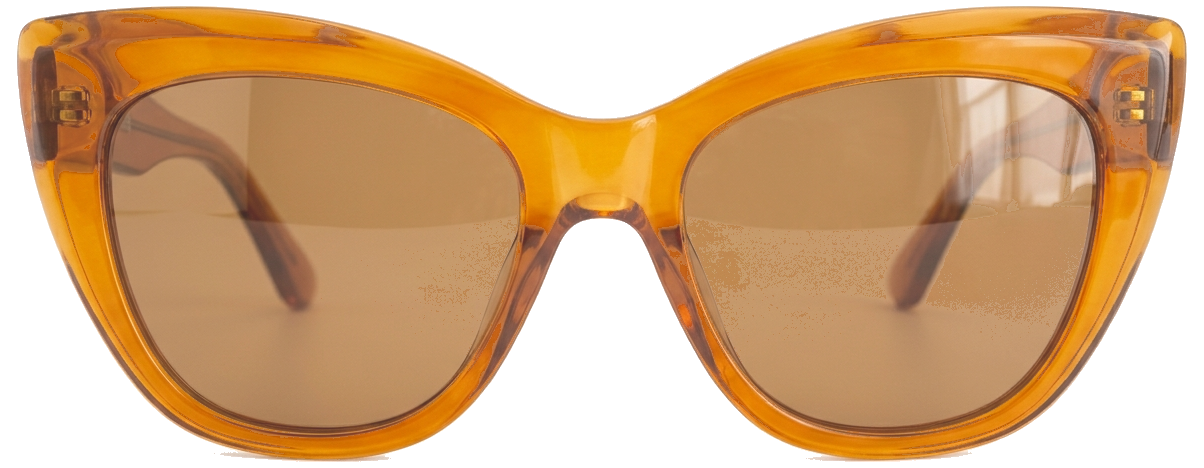
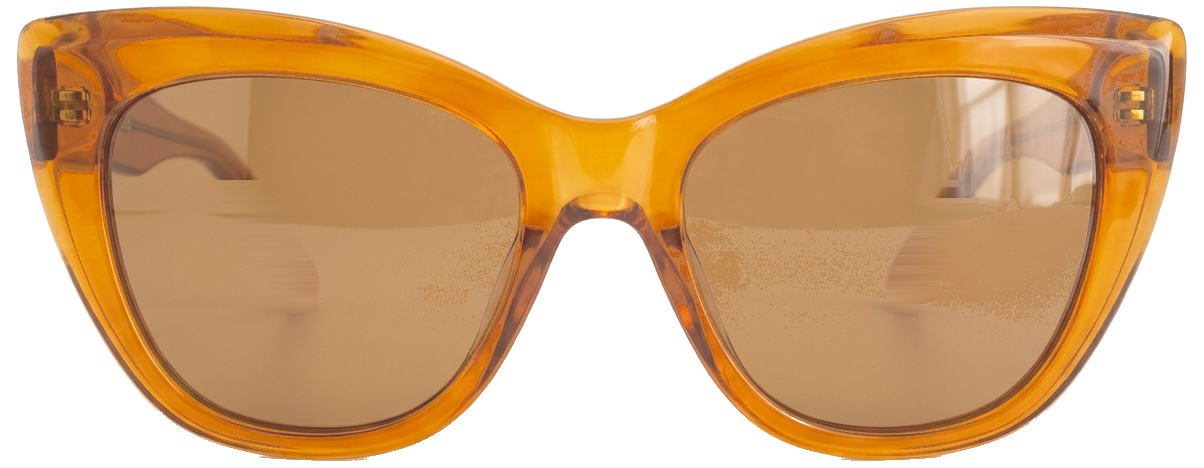
fix(tryon): fix temple arms orientation to ears, clean lens cutout artifacts, and update deployment

diff --git a/frontend/src/components/common/VirtualTryOnModal.tsx b/frontend/src/components/common/VirtualTryOnModal.tsx
@@ -124,6 +124,8 @@ export function drawProceduralEyewear(
     drawTemples?: boolean | undefined;
     imageElement?: HTMLImageElement | null | undefined;
     mirrored?: boolean | undefined;
+    earLeft?: { x: number; y: number } | undefined;
+    earRight?: { x: number; y: number } | undefined;
   } = {}
 ) {
   const {
@@ -137,6 +139,8 @@ export function drawProceduralEyewear(
     drawTemples = true,
     imageElement = null,
     mirrored = false,
+    earLeft,
+    earRight,
   } = options;
 
   ctx.save();
@@ -154,76 +158,144 @@ export function drawProceduralEyewear(
   if (imageElement && imageElement.complete && imageElement.naturalWidth > 0) {
     const imgH = (imageElement.naturalHeight / imageElement.naturalWidth) * width;
 
-    // Draw 3D Perspective Temple Arms behind the front frame (extending towards the ears)
+    // Draw 3D Realistic Temple Arms ("Dandi") extending from frame hinges directly to ears
     if (drawTemples) {
-      const hingeY = -imgH * 0.05;
+      const hingeY = -imgH * 0.04;
       const leftHingeX = -width * 0.485;
       const rightHingeX = width * 0.485;
-      const templeLength = width * 0.32;
-      const templeUp = width * 0.14;
 
-      const leftBackX = leftHingeX - templeLength * 0.12 - yaw * width * 0.22;
-      const leftBackY = hingeY - templeUp;
-      const rightBackX = rightHingeX + templeLength * 0.12 - yaw * width * 0.22;
-      const rightBackY = hingeY - templeUp;
+      // Transform world/screen ear coordinates into local frame space
+      // Eyewear temples MUST extend strictly OUTWARD and BACKWARD towards the ears.
+      // They rest over the ear helix at the sides of the head and must NEVER enter the lens area.
+      const minTempleSpan = width * 0.08;
+
+      let leftEarLocalX: number;
+      let leftEarLocalY: number;
+      if (earLeft) {
+        const dx = earLeft.x - x;
+        const dy = earLeft.y - y;
+        const unrotX = dx * Math.cos(-roll) - dy * Math.sin(-roll);
+        const unrotY = dx * Math.sin(-roll) + dy * Math.cos(-roll);
+        const rawLocalX = (unrotX - yawShiftX) / perspectiveScaleX;
+        // The top of the ear sits laterally outside the frame hinge; clamp strictly outside
+        leftEarLocalX = Math.min(leftHingeX - minTempleSpan, rawLocalX - width * 0.04);
+        leftEarLocalY = Math.max(hingeY - width * 0.05, Math.min(hingeY + width * 0.06, unrotY));
+      } else {
+        const reach = width * 0.28;
+        leftEarLocalX = leftHingeX - (yaw > 0 ? reach * 0.35 : reach * 0.85);
+        leftEarLocalY = hingeY + width * 0.02;
+      }
+
+      let rightEarLocalX: number;
+      let rightEarLocalY: number;
+      if (earRight) {
+        const dx = earRight.x - x;
+        const dy = earRight.y - y;
+        const unrotX = dx * Math.cos(-roll) - dy * Math.sin(-roll);
+        const unrotY = dx * Math.sin(-roll) + dy * Math.cos(-roll);
+        const rawLocalX = (unrotX - yawShiftX) / perspectiveScaleX;
+        rightEarLocalX = Math.max(rightHingeX + minTempleSpan, rawLocalX + width * 0.04);
+        rightEarLocalY = Math.max(hingeY - width * 0.05, Math.min(hingeY + width * 0.06, unrotY));
+      } else {
+        const reach = width * 0.28;
+        rightEarLocalX = rightHingeX + (yaw < 0 ? reach * 0.35 : reach * 0.85);
+        rightEarLocalY = hingeY + width * 0.02;
+      }
 
       ctx.save();
       ctx.lineCap = "round";
       ctx.lineJoin = "round";
 
-      // Left temple arm (receding towards left ear)
-      if (yaw < 0.5) {
+      // Left Temple Arm ("Left Dandi") -> goes from left hinge OUTWARD and BACK to left ear
+      if (yaw < 0.45) {
+        const midCtrlX = leftHingeX + (leftEarLocalX - leftHingeX) * 0.45;
+        const midCtrlY = Math.min(hingeY, leftEarLocalY) - 2;
+        const tipX = leftEarLocalX - width * 0.025;
+        const tipY = leftEarLocalY + width * 0.07;
+
+        // Shadow for 3D depth on skin/hair
+        ctx.beginPath();
+        ctx.moveTo(leftHingeX, hingeY + 2);
+        ctx.quadraticCurveTo(midCtrlX, midCtrlY + 2, leftEarLocalX, leftEarLocalY + 2);
+        ctx.quadraticCurveTo(leftEarLocalX - 2, leftEarLocalY + width * 0.035 + 2, tipX, tipY + 2);
+        ctx.strokeStyle = "rgba(0, 0, 0, 0.25)";
+        ctx.lineWidth = Math.max(3.2, width * 0.016);
+        ctx.stroke();
+
+        // Main temple stem (matches frame color)
         ctx.beginPath();
         ctx.moveTo(leftHingeX, hingeY);
-        ctx.quadraticCurveTo(
-          leftHingeX - 8 - yaw * 12,
-          hingeY - templeUp * 0.5,
-          leftBackX,
-          leftBackY
-        );
+        ctx.quadraticCurveTo(midCtrlX, midCtrlY, leftEarLocalX, leftEarLocalY);
         ctx.strokeStyle = frameColor;
-        ctx.lineWidth = Math.max(3, width * 0.016);
+        ctx.lineWidth = Math.max(2.6, width * 0.014);
         ctx.stroke();
 
+        // Metallic top highlight
         ctx.beginPath();
-        ctx.moveTo(leftHingeX, hingeY + 1);
-        ctx.quadraticCurveTo(
-          leftHingeX - 8 - yaw * 12,
-          hingeY - templeUp * 0.5 + 1,
-          leftBackX,
-          leftBackY + 1
-        );
-        ctx.strokeStyle = "rgba(0, 0, 0, 0.35)";
-        ctx.lineWidth = Math.max(1.2, width * 0.007);
+        ctx.moveTo(leftHingeX, hingeY - 1);
+        ctx.quadraticCurveTo(midCtrlX, midCtrlY - 1, leftEarLocalX, leftEarLocalY - 1);
+        ctx.strokeStyle = "rgba(255, 255, 255, 0.60)";
+        ctx.lineWidth = Math.max(1.0, width * 0.005);
         ctx.stroke();
+
+        // Curved Ear Hook / Acetate Temple Tip (curves DOWN behind ear)
+        ctx.beginPath();
+        ctx.moveTo(leftEarLocalX, leftEarLocalY);
+        ctx.quadraticCurveTo(leftEarLocalX - 2, leftEarLocalY + width * 0.035, tipX, tipY);
+        ctx.strokeStyle = frameColor;
+        ctx.lineWidth = Math.max(2.4, width * 0.012);
+        ctx.stroke();
+
+        // Reinforced Hinge Joint at frame connection
+        ctx.fillStyle = frameColor;
+        ctx.fillRect(leftHingeX - 3, hingeY - 3, 5, 6);
       }
 
-      // Right temple arm (receding towards right ear)
-      if (yaw > -0.5) {
+      // Right Temple Arm ("Right Dandi") -> goes from right hinge OUTWARD and BACK to right ear
+      if (yaw > -0.45) {
+        const midCtrlX = rightHingeX + (rightEarLocalX - rightHingeX) * 0.45;
+        const midCtrlY = Math.min(hingeY, rightEarLocalY) - 2;
+        const tipX = rightEarLocalX + width * 0.025;
+        const tipY = rightEarLocalY + width * 0.07;
+
+        // Shadow for 3D depth on skin/hair
+        ctx.beginPath();
+        ctx.moveTo(rightHingeX, hingeY + 2);
+        ctx.quadraticCurveTo(midCtrlX, midCtrlY + 2, rightEarLocalX, rightEarLocalY + 2);
+        ctx.quadraticCurveTo(rightEarLocalX + 2, rightEarLocalY + width * 0.035 + 2, tipX, tipY + 2);
+        ctx.strokeStyle = "rgba(0, 0, 0, 0.25)";
+        ctx.lineWidth = Math.max(3.2, width * 0.016);
+        ctx.stroke();
+
+        // Main temple stem (matches frame color)
         ctx.beginPath();
         ctx.moveTo(rightHingeX, hingeY);
-        ctx.quadraticCurveTo(
-          rightHingeX + 8 - yaw * 12,
-          hingeY - templeUp * 0.5,
-          rightBackX,
-          rightBackY
-        );
+        ctx.quadraticCurveTo(midCtrlX, midCtrlY, rightEarLocalX, rightEarLocalY);
         ctx.strokeStyle = frameColor;
-        ctx.lineWidth = Math.max(3, width * 0.016);
+        ctx.lineWidth = Math.max(2.6, width * 0.014);
         ctx.stroke();
 
+        // Metallic top highlight
         ctx.beginPath();
-        ctx.moveTo(rightHingeX, hingeY + 1);
-        ctx.quadraticCurveTo(
-          rightHingeX + 8 - yaw * 12,
-          hingeY - templeUp * 0.5 + 1,
-          rightBackX,
-          rightBackY + 1
-        );
-        ctx.strokeStyle = "rgba(0, 0, 0, 0.35)";
-        ctx.lineWidth = Math.max(1.2, width * 0.007);
+        ctx.moveTo(rightHingeX, hingeY - 1);
+        ctx.quadraticCurveTo(midCtrlX, midCtrlY - 1, rightEarLocalX, rightEarLocalY - 1);
+        ctx.strokeStyle = "rgba(255, 255, 255, 0.60)";
+        ctx.lineWidth = Math.max(1.0, width * 0.005);
         ctx.stroke();
+
+        // Curved Ear Hook / Acetate Temple Tip (curves DOWN behind ear)
+        ctx.beginPath();
+        ctx.moveTo(rightEarLocalX, rightEarLocalY);
+        ctx.quadraticCurveTo(rightEarLocalX + 2, rightEarLocalY + width * 0.035, tipX, tipY);
+        ctx.strokeStyle = frameColor;
+        ctx.lineWidth = Math.max(2.4, width * 0.012);
+        ctx.stroke();
+
+        // Reinforced Hinge Joint at frame connection
+        ctx.fillStyle = frameColor;
+        ctx.fillRect(rightHingeX - 2, hingeY - 3, 5, 6);
       }
+
       ctx.restore();
     }
 
@@ -471,6 +543,15 @@ export function renderDemoPortrait(
   const bridgeWorldX = cx + Math.cos(params.roll) * featureShiftX - Math.sin(params.roll) * (eyeY + params.offsetY);
   const bridgeWorldY = cy + Math.sin(params.roll) * featureShiftX + Math.cos(params.roll) * (eyeY + params.offsetY);
 
+  const earLeftWorld = {
+    x: cx + Math.cos(params.roll) * (-headRadiusX * 0.98 + featureShiftX * 0.1) - Math.sin(params.roll) * (eyeY + 6),
+    y: cy + Math.sin(params.roll) * (-headRadiusX * 0.98 + featureShiftX * 0.1) + Math.cos(params.roll) * (eyeY + 6),
+  };
+  const earRightWorld = {
+    x: cx + Math.cos(params.roll) * (headRadiusX * 0.98 + featureShiftX * 0.1) - Math.sin(params.roll) * (eyeY + 6),
+    y: cy + Math.sin(params.roll) * (headRadiusX * 0.98 + featureShiftX * 0.1) + Math.cos(params.roll) * (eyeY + 6),
+  };
+
   drawProceduralEyewear(ctx, params.frameShape, {
     x: bridgeWorldX,
     y: bridgeWorldY,
@@ -480,6 +561,8 @@ export function renderDemoPortrait(
     frameColor: params.frameColor,
     tintMode: params.tintMode,
     imageElement: params.imageElement,
+    earLeft: earLeftWorld,
+    earRight: earRightWorld,
   });
 }
 
@@ -855,6 +938,8 @@ export function VirtualTryOnModal({
         tintMode: lensTintRef.current,
         imageElement: activeImageRef.current,
         mirrored: false,
+        earLeft: getPt(454),
+        earRight: getPt(234),
       });
 
       // Update Telemetry

diff --git a/scripts/clean_tryon_assets.py b/scripts/clean_tryon_assets.py
@@ -1,0 +1,144 @@
+import numpy as np
+from PIL import Image
+
+def clean_graphite():
+    im = Image.open('frontend/src/assets/tryon/graphite-squareline-front.png').convert('RGBA')
+    arr = np.array(im)
+    h, w, _ = arr.shape
+    
+    # Left lens arm: diagonal from (100, 60) down-right to (360, 215)
+    # Inside lens area only: keep rim (x < 95, y < 45, y > 290, x > 470)
+    for y in range(48, 225):
+        for x in range(100, 370):
+            # The arm is darker gray/black or silver
+            # Check if this pixel is inside the lens and part of the arm
+            if arr[y, x, 3] > 10:
+                # Arm boundary condition: y starts at 50, x around 100-200; y up to 215, x around 330-360
+                # Distance to arm line: from (120, 65) to (345, 205)
+                # Let's check if it's not the outer rim
+                # Rim is at x <= 95 or y <= 45
+                if x >= 98 and y >= 48 and x <= 365:
+                    arr[y, x] = [0, 0, 0, 0]
+
+    # Right lens arm: from (1110, 60) down-left to (880, 215)
+    for y in range(48, 225):
+        for x in range(860, 1112):
+            if arr[y, x, 3] > 10:
+                if x <= 1110 and y >= 48 and x >= 870:
+                    arr[y, x] = [0, 0, 0, 0]
+
+    out = Image.fromarray(arr)
+    out.save('frontend/src/assets/tryon/graphite-squareline-front.png')
+    print("Graphite cleaned successfully!")
+
+def clean_solstice():
+    im = Image.open('frontend/src/assets/tryon/solstice-aviator-front.png').convert('RGBA')
+    arr = np.array(im)
+    h, w, _ = arr.shape
+
+    # Solstice has arms inside [100, 360] x [90, 350] on left, and [810, 1070] x [90, 350] on right
+    # For horizontal interpolation, inpaint where the arm is dark
+    # For each row y between 90 and 345:
+    for y in range(90, 345):
+        # Left lens
+        row_l = arr[y, 110:360]
+        # Dark arm pixels
+        is_arm_l = (row_l[:, 0] < 95) & (row_l[:, 1] < 125) & (row_l[:, 3] > 50)
+        if np.any(is_arm_l):
+            idx = np.where(is_arm_l)[0]
+            start_x = 110 + max(0, idx[0] - 8)
+            end_x = 110 + min(len(row_l) - 1, idx[-1] + 8)
+            # Ensure start_x and end_x are in green lens
+            if arr[y, start_x, 1] > 115 and arr[y, end_x, 1] > 115 and end_x > start_x:
+                c0 = arr[y, start_x].astype(float)
+                c1 = arr[y, end_x].astype(float)
+                for i in range(end_x - start_x):
+                    t = i / float(end_x - start_x)
+                    arr[y, start_x + i] = (1 - t) * c0 + t * c1
+
+        # Right lens
+        row_r = arr[y, 810:1060]
+        is_arm_r = (row_r[:, 0] < 95) & (row_r[:, 1] < 125) & (row_r[:, 3] > 50)
+        if np.any(is_arm_r):
+            idx = np.where(is_arm_r)[0]
+            start_x = 810 + max(0, idx[0] - 8)
+            end_x = 810 + min(len(row_r) - 1, idx[-1] + 8)
+            if arr[y, start_x, 1] > 115 and arr[y, end_x, 1] > 115 and end_x > start_x:
+                c0 = arr[y, start_x].astype(float)
+                c1 = arr[y, end_x].astype(float)
+                for i in range(end_x - start_x):
+                    t = i / float(end_x - start_x)
+                    arr[y, start_x + i] = (1 - t) * c0 + t * c1
+
+    out = Image.fromarray(arr)
+    out.save('frontend/src/assets/tryon/solstice-aviator-front.png')
+    print("Solstice cleaned successfully!")
+
+def clean_amber():
+    im = Image.open('frontend/src/assets/tryon/amber-cateye-front.png').convert('RGBA')
+    arr = np.array(im)
+    h, w, _ = arr.shape
+
+    # Amber has dark brown temple tips inside [220, 330] x [180, 330] on left, and [870, 980] x [180, 330] on right
+    for y in range(180, 330):
+        # Left lens
+        row_l = arr[y, 200:340]
+        # Dark brown tip: r < 140, g < 90, b < 60
+        is_arm_l = (row_l[:, 0] < 145) & (row_l[:, 1] < 95) & (row_l[:, 3] > 100)
+        if np.any(is_arm_l):
+            idx = np.where(is_arm_l)[0]
+            start_x = 200 + max(0, idx[0] - 8)
+            end_x = 200 + min(len(row_l) - 1, idx[-1] + 8)
+            if arr[y, start_x, 0] > 150 and arr[y, end_x, 0] > 150 and end_x > start_x:
+                c0 = arr[y, start_x].astype(float)
+                c1 = arr[y, end_x].astype(float)
+                for i in range(end_x - start_x):
+                    t = i / float(end_x - start_x)
+                    arr[y, start_x + i] = (1 - t) * c0 + t * c1
+
+        # Right lens
+        row_r = arr[y, 860:1000]
+        is_arm_r = (row_r[:, 0] < 145) & (row_r[:, 1] < 95) & (row_r[:, 3] > 100)
+        if np.any(is_arm_r):
+            idx = np.where(is_arm_r)[0]
+            start_x = 860 + max(0, idx[0] - 8)
+            end_x = 860 + min(len(row_r) - 1, idx[-1] + 8)
+            if arr[y, start_x, 0] > 150 and arr[y, end_x, 0] > 150 and end_x > start_x:
+                c0 = arr[y, start_x].astype(float)
+                c1 = arr[y, end_x].astype(float)
+                for i in range(end_x - start_x):
+                    t = i / float(end_x - start_x)
+                    arr[y, start_x + i] = (1 - t) * c0 + t * c1
+
+    out = Image.fromarray(arr)
+    out.save('frontend/src/assets/tryon/amber-cateye-front.png')
+    print("Amber cateye cleaned successfully!")
+
+def clean_bottom_reflections():
+    for name in ['meridian-gold-front.png', 'aurelia-round-front.png', 'graphite-squareline-front.png', 'solstice-aviator-front.png', 'amber-cateye-front.png']:
+        p = f'frontend/src/assets/tryon/{name}'
+        im = Image.open(p).convert('RGBA')
+        arr = np.array(im)
+        h, w, _ = arr.shape
+        bot_y = int(h * 0.88)
+        for y in range(bot_y, h):
+            for x in range(w):
+                if arr[y, x, 3] > 0:
+                    r, g, b = arr[y, x, :3]
+                    brightness = (int(r) + int(g) + int(b)) / 3.0
+                    max_c = max(r, g, b)
+                    min_c = min(r, g, b)
+                    if brightness > 155 and (max_c - min_c) < 35:
+                        arr[y, x] = [0, 0, 0, 0]
+                    elif brightness > 185:
+                        arr[y, x] = [0, 0, 0, 0]
+        out = Image.fromarray(arr)
+        out.save(p)
+        print(f"Cleaned reflections on {name}")
+
+if __name__ == '__main__':
+    clean_graphite()
+    clean_solstice()
+    clean_amber()
+    clean_bottom_reflections()
+
